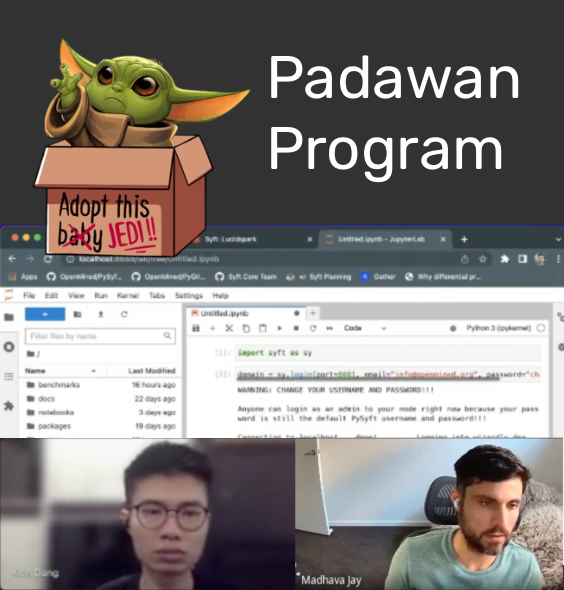
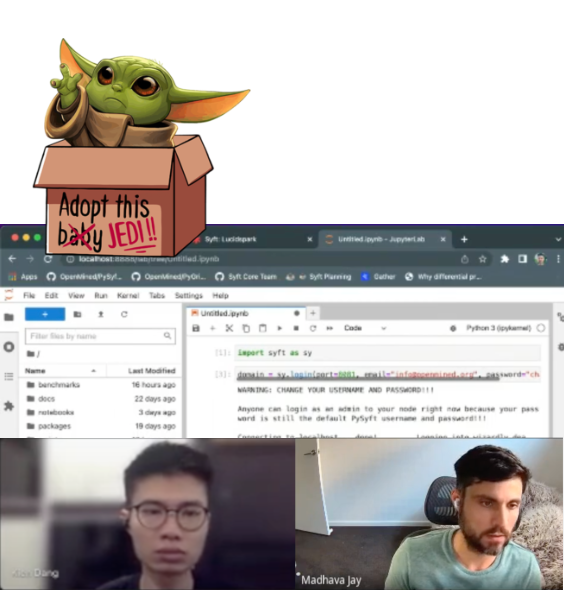
Fixing some more images

Changed region(s): [[0.0, 0.0, 1.0, 0.3966], [0.0301, 0.5186, 0.1206, 0.5492], [0.9947, 0.9458, 1.0, 1.0]]

diff --git a/README_NEW.md b/README_NEW.md
@@ -188,21 +188,20 @@ Provides services to a group of `Data Owners` and `Data Scientists`, such as dat
 
 <table border="5" bordercolor="grey">
 <tr>
-<th align="center" bgcolor="#323232">
+<th align="center" valign="top">
 <img width="441" height="1">
 <div align="center">
 <a href="https://slack.openmined.org/"><img src="packages/syft/docs/img/panel_slack.png" alt="" width="100%" align="center" /></a>
 </th>
-<th align="center" bgcolor="#323232">
+<th align="center" valign="top">
 <img width="441" height="1">
 <div align="center">
 <img src="packages/syft/docs/img/panel_title_youtube.png" alt="" width="100%" align="center" />
 <p align="left"><sub><sup>- <a href="https://www.youtube.com/watch?v=qVf0tPBzr2k">PETs: Remote Data Science Unleashed - R gov 2021</a><br />- <a href="https://youtu.be/sCoDWKTbh3s?list=PL_lsbAsL_o2BQKXG7mkGFA8LSApCnhljL">Introduction to Remote Data Science - PyTorch Dev 2021</a><br />- <a href="https://youtu.be/kzLeTz_vIeQ?list=PL_lsbAsL_o2BtOz6KUfUI_Zla6Rg5dmyc">The Future of AI Tools - PyTorch Dev 2020</a><br />- <a href="https://www.youtube.com/watch?v=4zrU54VIK6k&t=1s">Privacy Preserving AI - MIT Deep Learning Series</a><br />- <a href="https://www.youtube.com/watch?v=Pr4erdusiW0">Privacy-Preserving Data Science - TWiML Talk #241</a><br />- <a href="https://www.youtube.com/watch?v=NJBBE_SN90A">Privacy Preserving AI - PyTorch Devcon 2019</a>
 </sup></sup></p>
-<img src="packages/syft/docs/img/panel_title_papers.png" alt="" width="100%" align="center" />
 </div>
 </th>
-<th align="center" bgcolor="#323232">
+<th align="center" valign="top">
 <img width="441" height="1">
 <div align="center">
 <a href="https://blog.openmined.org/work-on-ais-most-exciting-frontier-no-phd-required/"><img src="packages/syft/docs/img/panel_padawan.png" alt="" width="100%" align="center"></a>
@@ -237,20 +236,18 @@ Provides services to a group of `Data Owners` and `Data Scientists`, such as dat
 
 # Contributors
 
-OpenMined and Syft appreciates all contributors, if you would like to fix a bug or suggest a new feature, please see our [guidelines](https://openmined.github.io/PySyft/developer_guide/index.html).<br /><br />
-<a href="https://github.com/OpenMined/PySyft/graphs/contributors"><img src="packages/syft/docs/img/contributors_light.jpg#gh-light-mode-only" alt="Contributors" width="100%" /></a>
-<a href="https://github.com/OpenMined/PySyft/graphs/contributors"><img src="packages/syft/docs/img/contributors_dark.jpg#gh-dark-mode-only" alt="Contributors" width="100%" /></a>
+OpenMined and Syft appreciates all contributors, if you would like to fix a bug or suggest a new feature, please see our [guidelines](https://openmined.github.io/PySyft/developer_guide/index.html).<br /><br />  
+<a href="https://github.com/OpenMined/PySyft/graphs/contributors"><img src="packages/syft/docs/img/contributors_light.jpg#gh-light-mode-only" alt="Contributors" width="100%" /><img src="packages/syft/docs/img/contributors_dark.jpg#gh-dark-mode-only" alt="Contributors" width="100%" /></a>
 
 # Supporters
 
-<a href="https://opencollective.com/openmined"><img src="packages/syft/docs/img/logos_light.png#gh-light-mode-only" alt="Supporters" width="100%" /></a>
-<a href="https://opencollective.com/openmined"><img src="packages/syft/docs/img/logos_dark.png#gh-dark-mode-only" alt="Supporters" width="100%" /></a>
+<a href="https://opencollective.com/openmined"><img src="packages/syft/docs/img/logos_light.png#gh-light-mode-only" alt="Supporters" width="100%" />
+<img src="packages/syft/docs/img/logos_dark.png#gh-dark-mode-only" alt="Supporters" width="100%" /></a>
 
 # Open Collective
 
 `OpenMined` is a registered `501(c)(3)` in the United States of America. We are funded by our gracious supporters on Open Collective. <br /><br />
-<a href="https://opencollective.com/openmined"><img src="packages/syft/docs/img/opencollective_light.png#gh-light-mode-only" alt="Contributors" width="100%" /></a>
-<a href="https://opencollective.com/openmined"><img src="packages/syft/docs/img/opencollective_dark.png#gh-dark-mode-only" alt="Contributors" width="100%" /></a>
+<a href="https://opencollective.com/openmined"><img src="packages/syft/docs/img/opencollective_light.png#gh-light-mode-only" alt="Contributors" width="100%" /><img src="packages/syft/docs/img/opencollective_dark.png#gh-dark-mode-only" alt="Contributors" width="100%" /></a>
 
 # Disclaimer
 
